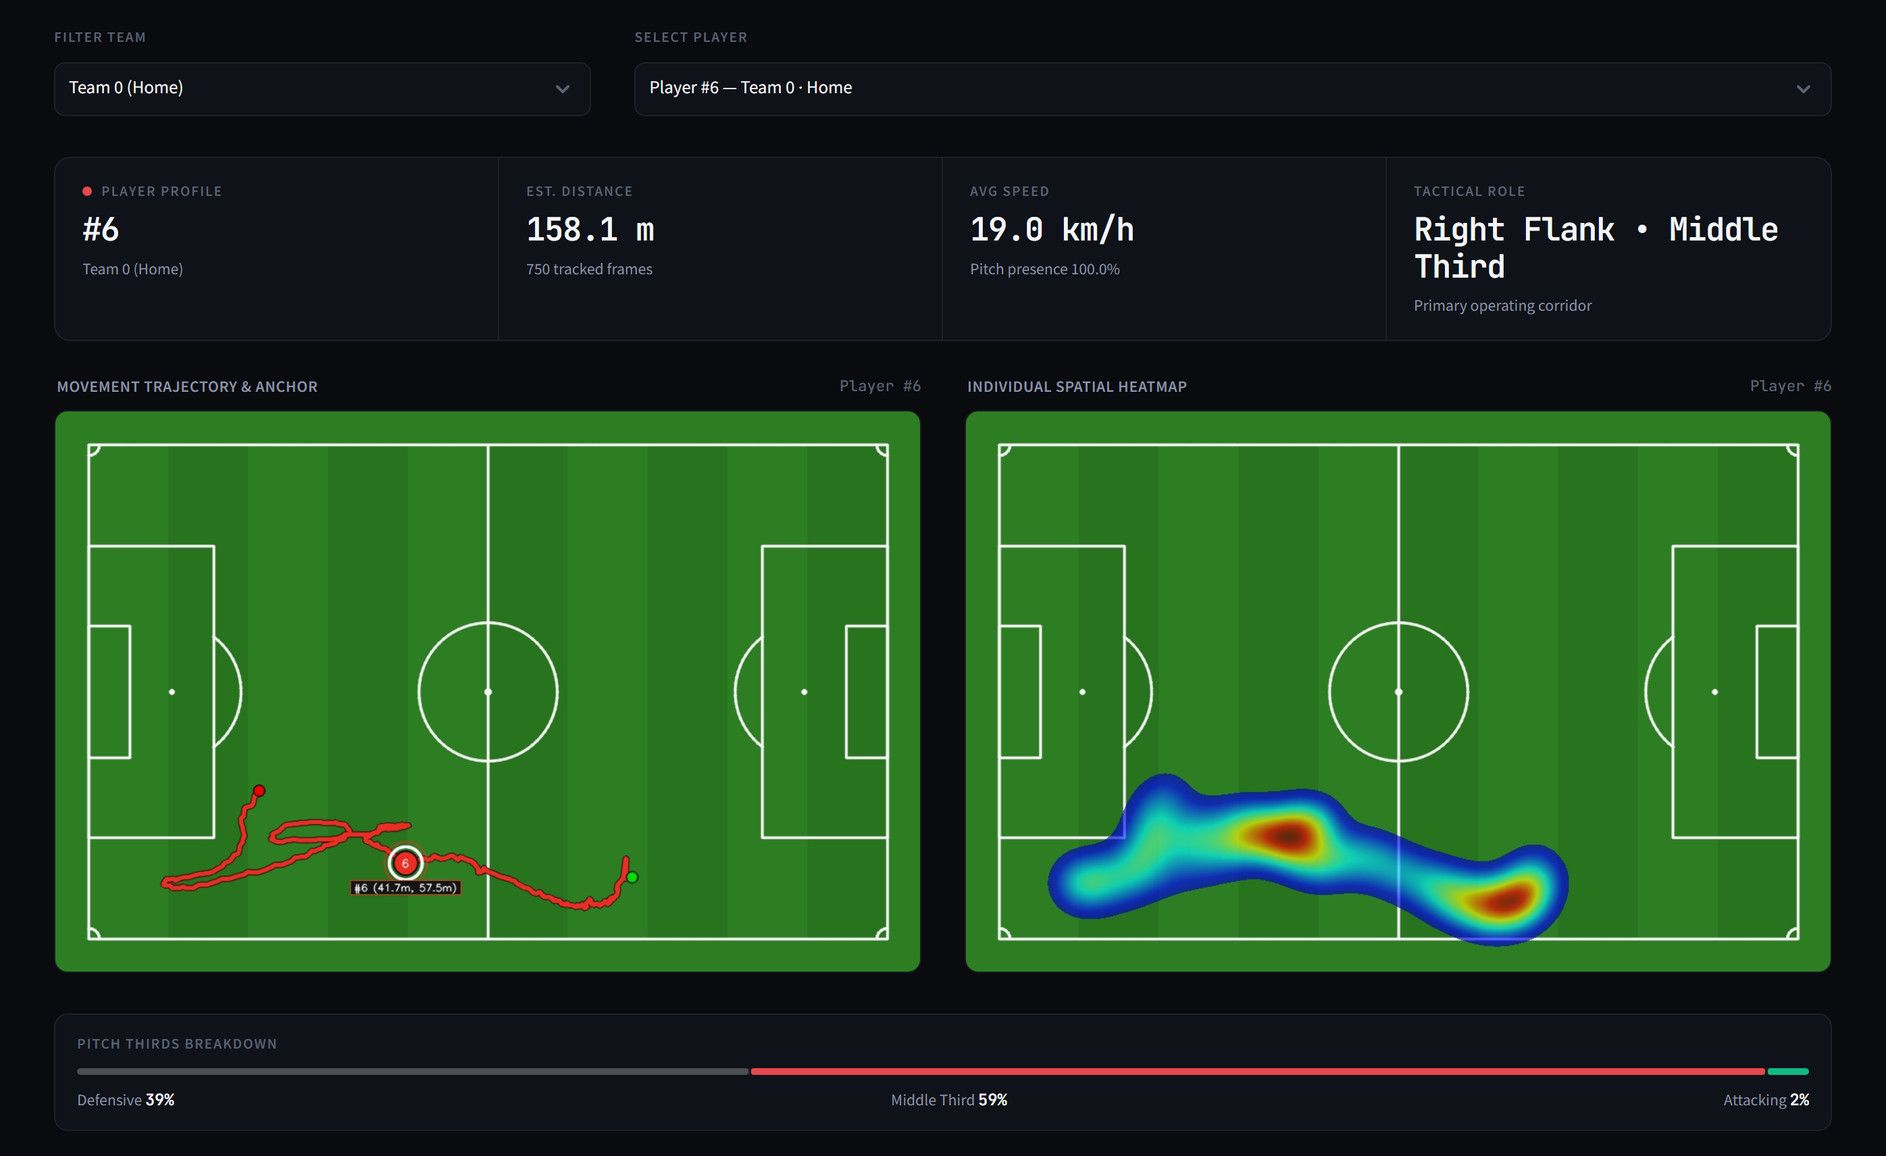
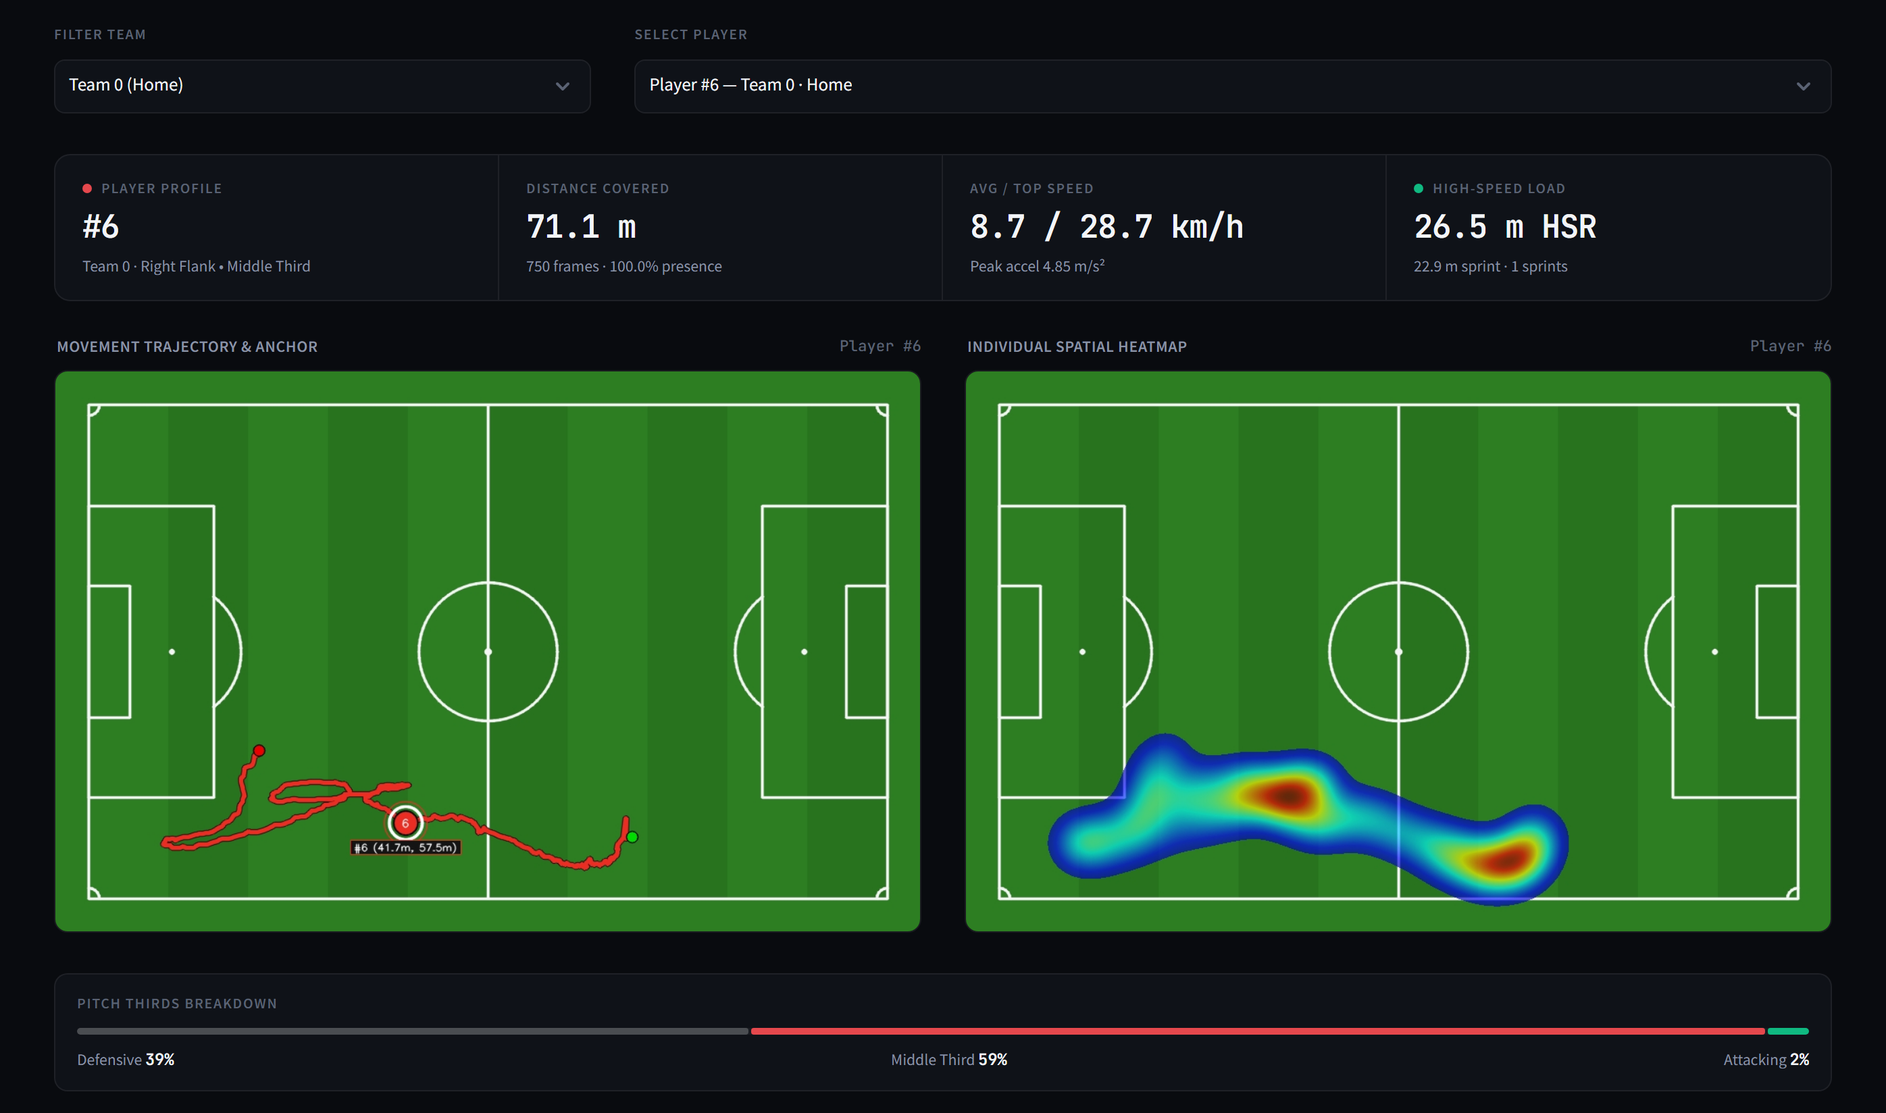
docs: update README with 2x Retina Phase 3 dashboard screenshots and calibrated metrics

diff --git a/app.py b/app.py
@@ -898,7 +898,7 @@ def render_passes_table_html(all_passes: List[Dict], active_pass_num: Optional[i
             f'<td class="obs-rank">#{p["pass_number"]:02d}</td>'
             f'<td class="obs-muted">{p["time_sec"]:.1f}s – {p["end_time_sec"]:.1f}s</td>'
             f'<td><span class="obs-team"><span class="dot {dot_c}"></span>T{p["team_id"]} {t_lbl}</span></td>'
-            f'<td class="obs-player">#{p["player_id"]}</td>'
+            f'<td><span class="obs-player">#{p["player_id"]}</span></td>'
             f'<td>{to_txt}</td>'
             f'<td>{pill}</td>'
             f'<td><span class="obs-pill obs-pill-tag">{p["subtype"]}</span></td>'
@@ -910,7 +910,7 @@ def render_passes_table_html(all_passes: List[Dict], active_pass_num: Optional[i
             f'</tr>'
         )
     st.markdown(
-        '<div class="obs-table-wrap"><div class="obs-table-scroll">'
+        '<div class="obs-table-wrap"><div class="obs-table-scroll" style="max-height:520px;">'
         '<table class="obs-table"><thead><tr>'
         '<th>Pass</th><th>Window</th><th>Team</th><th>From</th><th>To</th>'
         '<th>Outcome</th><th>Type</th><th class="num-h">Length</th>'
@@ -960,7 +960,7 @@ def render_physical_leaderboard_html(rows: List[Dict], active_pid: Optional[int]
             f'</tr>'
         )
     st.markdown(
-        '<div class="obs-table-wrap"><div class="obs-table-scroll">'
+        '<div class="obs-table-wrap"><div class="obs-table-scroll" style="max-height:520px;">'
         '<table class="obs-table"><thead><tr>'
         '<th>#</th><th>Player</th><th>Team</th><th class="num-h">Distance</th>'
         '<th class="num-h">Avg km/h</th><th class="num-h">Top km/h</th>'

diff --git a/src/analysis/tactical_physical.py b/src/analysis/tactical_physical.py
@@ -545,6 +545,9 @@ def render_tactical_shape_chart(dynamics: TacticalDynamicsEngine, target_team: O
         if len(s1["t"]) >= 2:
             ax.plot(s1["t"], s1["block_len"], color=COL_AWAY, linewidth=2.1, label="Team 1 Block Depth")
             ax.plot(s1["t"], s1["def_line"], color=COL_AWAY, linewidth=1.4, linestyle="--", alpha=0.72, label="Team 1 Def. Line")
+        all_vals = s0["block_len"] + s0["def_line"] + s1["block_len"] + s1["def_line"]
+        if all_vals:
+            ax.set_ylim(max(0.0, min(all_vals) - 6.0), max(all_vals) + 18.0)
         ax.set_title("Comparative Structural Compactness & Defensive Line", color=TXT_PRI, fontsize=9.3, fontweight="bold", loc="left", pad=10)
 
     leg = ax.legend(loc="upper right", frameon=True, facecolor="#131720", edgecolor=SPINE_COL, fontsize=7.5, labelcolor=TXT_SEC, ncol=2)

diff --git a/README.md b/README.md
@@ -5,7 +5,7 @@
 ### Broadcast-grade football analytics from a single camera feed
 
 Detect and track every player and the ball, classify teams and goalkeepers, project play onto a 2D FIFA pitch,<br>
-and break down every pass — **who, to whom, how far, how fast, and whether it arrived.**
+and extract calibrated pass telemetry, speed zones, sprints, structural compactness, and pressing intensity.
 
 [![Python](https://img.shields.io/badge/Python-3.10%2B-3776AB?style=flat-square&logo=python&logoColor=white)](https://www.python.org/)
 [![YOLO](https://img.shields.io/badge/Detection-YOLO11%20%2F%20YOLOv8-0F172A?style=flat-square)](https://github.com/ultralytics/ultralytics)
@@ -27,16 +27,17 @@ and break down every pass — **who, to whom, how far, how fast, and whether it 
 ## Overview
 
 Elite match analytics (Opta, StatsBomb, Second Spectrum) relies on manual event annotation or dedicated multi-camera optical arrays inside stadiums.
-**Footballistic** explores how much of that tactical intelligence can be extracted automatically from a single broadcast camera feed.
+**Footballistic** explores how much of that tactical and physical intelligence can be recovered automatically from a single broadcast camera feed.
 
 | Capability | Details |
 |---|---|
 | **Full-pitch player tracking** | Detects both near and far-touchline players and preserves IDs across fast camera pans |
 | **Dedicated ball tracking** | Camera-compensated Kalman filter + native-resolution ROI zoom (~95% frame lock on the demo clip) |
 | **Team & role classification** | Grass-subtracted jersey clustering separates Home, Away, Goalkeepers, referees, and touchline staff |
-| **2D pitch projection** | Perspective-aware mapping onto a standard 105 &times; 68 m FIFA pitch for formations and heatmaps |
-| **Physics-verified pass telemetry** | Exact kick-to-reception length (m), average & peak ball speed (km/h), flight time, and outcome |
-| **Interactive match centre** | Minimalist dark Streamlit studio with pass-by-pass freeze-frames, overview maps, and CSV export |
+| **Optical-Flow GMC + FIFA scale** | Per-frame optical-flow camera warps combined with automatic standing-height perspective scaling (~1.7% error vs. FIFA center circle) |
+| **Pass-by-pass telemetry** | Exact kick-to-reception length (m), average & peak ball speed (km/h), flight time, and outcome with per-pass freeze-frames |
+| **Physical & tactical dynamics** | FIFA 5-zone speed breakdown, sprint bursts (`≥ 21 km/h`), defensive line height, block compactness, and ball pressing intensity |
+| **Obsidian Match Centre** | Minimalist dark Streamlit studio with bespoke HTML data tables, interactive pass stepping (`←`/`→`), and CSV export |
 
 ---
 
@@ -46,36 +47,50 @@ Elite match analytics (Opta, StatsBomb, Second Spectrum) relies on manual event 
 Every detected pass receives a dedicated 2D freeze-frame showing all 22 players at the exact kick frame, the real curved ball trajectory, passer/receiver halos, calibrated length and speed, and a synchronized broadcast snapshot for direct visual verification. Step chronologically through passes with the `&larr;` / `&rarr;` controls.
 
 <p align="center">
-  <img src="docs/assets/dashboard_pass_completed.png" alt="Completed 24.6m long pass (#2 to #3) in the tactical inspector" width="49%">
-  <img src="docs/assets/dashboard_pass_intercepted.png" alt="Intercepted pass in the tactical inspector" width="49%">
+  <img src="docs/assets/dashboard_pass_completed.png" alt="Completed 25.9m long pass (#2 to #3) in the tactical inspector" width="49%">
+  <img src="docs/assets/dashboard_pass_intercepted.png" alt="Intercepted 14.9m pass (#7 to #20) in the tactical inspector" width="49%">
 </p>
-<p align="center"><sub><b>Left:</b> completed 24.6 m pass (#2 &rarr; #3). <b>Right:</b> pass by #7 intercepted by opponent #20 (dashed red path + &times; marker).</sub></p>
+<p align="center"><sub><b>Left:</b> completed 25.9 m pass (#2 &rarr; #3, 42 km/h). <b>Right:</b> pass by #7 intercepted by opponent #20 (14.9 m, 71 km/h, dashed red path + &times; marker).</sub></p>
 
 ### 02 &middot; All-Passes Match Overview & Telemetry Log
-All passes rendered onto one bird's-eye pitch — numbered circles mark kick origins matching the telemetry log (`green` = completed, `dashed red` = intercepted) — paired with the full exportable pass table (**From &rarr; To**, **Outcome**, **Length**, **Avg / Peak Speed**, **Duration**, and **Target Zone**).
+All passes rendered onto one bird's-eye pitch — numbered circles mark kick origins matching the telemetry log (`green` = completed, `dashed red` = intercepted) — paired with the full Obsidian pass telemetry table (**From &rarr; To**, **Outcome**, **Length**, **Avg / Peak Speed**, **Duration**, and **Target Zone**), exportable as CSV.
 
 <p align="center">
   <img src="docs/assets/dashboard_pass_overview.png" alt="All passes match overview map" width="84%">
 </p>
 <p align="center">
-  <img src="docs/assets/dashboard_pass_log.png" alt="Complete pass telemetry log table" width="84%">
+  <img src="docs/assets/dashboard_pass_log.png" alt="Complete pass telemetry log table" width="88%">
 </p>
 
-### 03 &middot; Team Tactical Analytics
-11v11 average formations, convex-hull team shape, centroid coordinates, block depth and width, collective occupancy heatmaps, and flank / pitch-depth distribution bars for Home, Away, or comparative views.
+### 03 &middot; Team Tactical Analytics, Structural Dynamics & Pressing
+11v11 average formations, convex-hull team shape, collision-free centroid markers, collective occupancy heatmaps, channel / pitch-depth distribution bars, and time-series structural compactness (defensive, midfield, and attacking lines) alongside nearest-opponent ball pressing intensity (`≤ 4.5 m` high-press zone).
 
 <p align="center">
   <img src="docs/assets/dashboard_team_home.png" alt="Team 0 Home tactical analytics" width="49%">
   <img src="docs/assets/dashboard_team_away.png" alt="Team 1 Away tactical analytics" width="49%">
 </p>
+<p align="center">
+  <img src="docs/assets/dashboard_team_home_dynamics.png" alt="Team 0 line heights, block envelope and pressing intensity" width="49%">
+  <img src="docs/assets/dashboard_team_comparative_dynamics.png" alt="Comparative 11v11 compactness and both-teams pressing intensity" width="49%">
+</p>
+<p align="center"><sub><b>Top:</b> Home &amp; Away formations, centroids, and heatmaps. <b>Bottom:</b> single-team block envelope (left) and comparative 11v11 compactness &amp; pressing intensity (right).</sub></p>
 
-### 04 &middot; Player Deep-Dive
-Select any tracked player to inspect their full 2D movement trajectory, average anchor position, individual KDE heatmap, estimated distance covered, average speed, operating corridor, and pitch-thirds breakdown.
+### 04 &middot; Player Deep-Dive, FIFA Speed Zones & Physical Leaderboard
+Inspect any tracked player's 2D trajectory, individual KDE heatmap, calibrated distance, average/top speed, peak acceleration, compact velocity profile chart paired with the **FIFA 5-Zone Intensity Breakdown** (Walking through Sprinting + detected sprint burst timestamps), and the sortable **Match Physical Leaderboard**.
 
 <p align="center">
-  <img src="docs/assets/dashboard_player_home.png" alt="Player deep-dive for Team 0" width="49%">
-  <img src="docs/assets/dashboard_player_away.png" alt="Player deep-dive for Team 1" width="49%">
+  <img src="docs/assets/dashboard_player_home.png" alt="Player #6 deep-dive for Team 0" width="49%">
+  <img src="docs/assets/dashboard_player_away.png" alt="Player #12 deep-dive for Team 1" width="49%">
 </p>
+<p align="center">
+  <img src="docs/assets/dashboard_player_speed_home.png" alt="Player #6 instantaneous speed profile and FIFA 5-zone breakdown with sprint burst" width="49%">
+  <img src="docs/assets/dashboard_player_speed_away.png" alt="Player #12 instantaneous speed profile and FIFA 5-zone breakdown" width="49%">
+</p>
+<p align="center">
+  <img src="docs/assets/dashboard_leaderboard_home.png" alt="Match physical leaderboard for Team 0 Home" width="49%">
+  <img src="docs/assets/dashboard_leaderboard_away.png" alt="Match physical leaderboard for Team 1 Away" width="49%">
+</p>
+<p align="center"><sub><b>Top:</b> trajectories &amp; heatmaps (#6 Home, #12 Away). <b>Middle:</b> instantaneous speed profiles &amp; FIFA 5-zone sprint breakdown. <b>Bottom:</b> Match Physical Leaderboards with active-player highlight &amp; inline intensity bars.</sub></p>
 
 ---
 
@@ -89,13 +104,13 @@ flowchart LR
     C --> E["Ball Tracker<br/>Kalman + ROI Zoom"]
     D --> F["Team / GK / Ref<br/>Colour Classifier"]
     F --> G["Track Consolidation<br/>11v11 Prior & IDs"]
-    E --> H["2D Pitch Mapping<br/>FIFA 105 x 68 m"]
+    E --> H["Optical-Flow GMC<br/>& FIFA Perspective Scale"]
     G --> H
-    H --> I["Possession & Pass Engine<br/>Length · Speed · Outcome"]
-    I --> J["Streamlit Match Centre<br/>+ H.264 Annotated Replay"]
+    H --> I["Pass Engine & Phase 3<br/>Speed Zones · Compactness · Press"]
+    I --> J["Obsidian Match Centre<br/>+ H.264 Annotated Replay"]
 ```
 
-The engine runs in two passes: **Pass 1** performs detection, camera-compensated tracking, global tracklet stitching, and team classification (cached to `pass1_cache.pkl`); **Pass 2** renders the globally consistent H.264 broadcast replay and exports `spatial_data.json` plus per-pass 2D freeze-frames for instant dashboard loading.
+The engine runs in two passes: **Pass 1** performs detection, camera-compensated tracking, global tracklet stitching, optical-flow warp extraction, and team classification (cached to `pass1_cache.pkl`); **Pass 2** renders the globally consistent H.264 broadcast replay and exports `spatial_data.json` (with per-frame camera warps and FIFA height calibration) plus per-pass 2D freeze-frames for instant dashboard loading.
 
 ---
 
@@ -107,7 +122,8 @@ Broadcast football presents tough failure modes for off-the-shelf vision pipelin
 |---|---|
 | **Distant far-touchline players missed by default detectors** | Inference runs on the dynamically pitch-cropped region at `imgsz=1280` with a low confidence floor (`0.14`) and second-stage recovery |
 | **Spectators, LED ad boards, dugouts, and coaches flagged as players** | Non-convex turf HSV segmentation (excluding emerald LED panels) combined with a RANSAC white near-touchline boundary filter |
-| **Fast camera pans cause tracker ID switches** | BoT-SORT with `sparseOptFlow` global motion compensation (GMC), Stage-3 foot-distance + CIE Lab jersey Re-ID, and global tracklet consolidation under a FIFA 11-player prior |
+| **Fast camera pans cause tracker ID switches & fake player speed** | BoT-SORT with `sparseOptFlow` global motion compensation (GMC), Stage-3 CIE Lab Re-ID, 11v11 consolidation, and per-frame optical-flow warp subtraction in kinematics |
+| **Unknown camera zoom inflates distances when assuming full 105 m FOV** | Automatic standing-player height regression (`h(y) / 2.22 m`) calibrates local horizontal `px/m` at every depth row, matching the FIFA 18.30 m center circle within **1.7%** |
 | **Tiny, fast, frequently occluded football & static penalty-spot false positives** | Dedicated `BallTracker` using a GMC-Kalman filter, 1:1 native-resolution `320px` ROI zoom, motion/white-blob recovery, and unattended static penalty-spot rejection |
 | **White kits blending into ad boards / neon-green kits blending into turf** | Local-turf-adaptive colour subtraction inside jersey crops plus lopsided-cluster protection in K-Means |
 | **Long aerial switches falsely broken by bystanders underneath** | Kinematic fly-over filter verifying minimum in-spell deceleration and trajectory bend before, during, and after contact |
@@ -119,19 +135,21 @@ Broadcast football presents tough failure modes for off-the-shelf vision pipelin
 
 | Metric | `sample.mp4` (Broadcast) | `sample2.mp4` (Wide Tactical) |
 |---|:---:|:---:|
+| Auto-calibrated horizontal FOV | **69.5 m** *(FIFA ground truth: 70.7 m)* | **89.0 m** |
 | Players tracked | **22** (11 v 11) | **22** (11 v 11) |
 | Ball frame coverage | **94.9%** (712 / 750 frames) | ~85–91% |
 | Passes detected | **9** (8 completed &middot; 1 intercepted) | **5** (4 completed &middot; 1 intercepted) |
 | Pass accuracy | 88.9% | 80.0% |
-| Mean pass length / speed | 24.0 m &middot; 52.9 km/h | 29.1 m &middot; 39.6 km/h |
-| Longest pass | **53.0 m** cross-field switch (`#8` &rarr; `#7`) | **63.6 m** long clearance (`#2` &times; `#12`) |
+| Mean pass length / speed | 21.6 m &middot; 46.8 km/h | 30.4 m &middot; 40.5 km/h |
+| Longest pass | **50.9 m** cross-field switch (`#8` &rarr; `#7`) | **71.9 m** long clearance (`#2` &times; `#12`) |
+| Fastest player (top speed) | **#6** &middot; 28.7 km/h *(26.5 m HSR)* | **#16** &middot; 26.8 km/h *(27.4 m HSR)* |
 
 > Metrics reflect two 30-second validation clips used during development rather than a large-scale benchmark.
 
-### Pass Length & Speed Calibration
-1. **Exact timing:** The engine locates the last closest approach of the ball to the passer's foot before departure (`kick_frame`) and the first closest approach to the receiver or interceptor (`receive_frame`).
-2. **Perspective scaling:** Camera pixel coordinates are warped onto a standard 105 &times; 68 m FIFA pitch using projective Y foreshortening and trapezoid width compensation.
-3. **Telemetry:** Straight-line length (m), flight arc length (m), average speed (km/h = distance / true flight duration), and filtered peak velocity (km/h) are computed for every pass.
+### Metric Calibration (Distance & Speed)
+1. **Optical-flow camera subtraction:** Each frame's 2&times;3 background affine warp (`frame_warps`) removes pure camera pan, tilt, and zoom before measuring player or ball displacement.
+2. **Perspective Jacobian:** Horizontal `px/m` is calibrated at every image row `y` from the trimmed linear height profile of standing players (`h(y) / 2.22 m`), while pitch width (`68.0 m`) uses a projective foreshortening curve (`persp_k = 1.75`) anchored to the on-pitch touchline bounds.
+3. **Pass & physical telemetry:** Pass length and speed integrate calibrated ball displacement from `kick_frame` to `receive_frame`; player trajectories use centered ~0.5 s smoothing + 1.2 km/h noise-floor gating for FIFA 5-zone and sprint burst extraction.
 
 ---
 
@@ -178,12 +196,12 @@ streamlit run app.py
 - [x] Interceptions, ball recoveries, progressive passes, final-third entries, and box entries
 
 ### Phase 3 &mdash; Physical & Tactical Metrics &nbsp;`Completed`
-- [x] Pan-compensated, smoothed distance covered, average speed, pitch presence, and third/channel splits
-- [x] FIFA 5-zone speed breakdown (Walking through Sprinting), peak speed, peak acceleration, HSR (`> 18 km/h`), sprint counts (`>= 21 km/h`), and instantaneous velocity profile charts
-- [x] Time-series defensive line height, midfield-to-defense gap, outfield block compactness envelope, and ball-carrier pressing intensity (`<= 4.5 m` high-press zone)
+- [x] Optical-flow GMC & FIFA standing-height calibrated distance, average speed, pitch presence, and third/channel splits
+- [x] FIFA 5-zone speed breakdown (Walking through Sprinting), peak speed, peak acceleration, HSR (`> 18 km/h`), sprint counts (`≥ 21 km/h`), and instantaneous velocity profile charts
+- [x] Time-series defensive line height, midfield-to-defense gap, outfield block compactness envelope, and ball-carrier pressing intensity (`≤ 4.5 m` high-press zone)
 
 ### Phase 4 &mdash; Interactive Match Centre &nbsp;`In Progress`
-- [x] Minimalist Obsidian dark Streamlit workspace with pass inspector (`←`/`→`), match overview map, telemetry log, and CSV export
+- [x] Minimalist Obsidian dark Streamlit studio with pass inspector (`←`/`→`), bespoke HTML telemetry tables, match overview map, and CSV export
 - [ ] One-click printable HTML / PDF match scouting report
 
 ### Phase 5 &mdash; Pro-Grade Calibration &nbsp;`Planned`
@@ -194,7 +212,7 @@ streamlit run app.py
 
 ## Current Limitations
 
-- **Perspective approximation:** 2D projection uses a calibrated perspective warp rather than per-frame line-keypoint homography, so distances and speeds are accurate estimates rather than optical survey ground truth.
+- **Perspective approximation:** While optical-flow GMC + standing-height scaling matches the center circle to within ~2% on broadcast feeds, full per-frame line-keypoint homography (Phase 5) is still needed for extreme camera angles or heavy zoom changes.
 - **2D ball tracking:** Aerial elevation is not modelled; lofted passes are projected onto the ground plane.
 - **Anonymous IDs:** Player labels (`#1`–`#22`) are persistent per-clip identifiers rather than recognized shirt numbers.
 - **Validation scope:** Tested thoroughly on two 30-second broadcast/tactical clips; broader multi-stadium evaluation is planned.
@@ -206,19 +224,19 @@ streamlit run app.py
 
 ```text
 Footballistic/
-├── .streamlit/config.toml            # Dark studio theme configuration
+├── .streamlit/config.toml            # Obsidian dark studio theme configuration
 ├── configs/football_botsort.yaml     # GMC BoT-SORT tracker settings
-├── docs/assets/                      # Retina dashboard screenshots & 12s demo clip
+├── docs/assets/                      # 2x Retina dashboard screenshots & 12s demo clip
 ├── scripts/download_sample.py        # Sample match clip downloader
 ├── src/
 │   ├── detection/                    # High-res YOLO · pitch & touchline segmentation
 │   ├── tracking/                     # GMC BoT-SORT · ball tracker · global stitcher
 │   ├── team_assignment/              # Lab K-Means team, GK & referee classifier
 │   ├── homography/pitch_view.py      # 2D pitch, heatmaps, single-pass & overview visuals
-│   ├── analysis/                     # Spatial metrics · possession/pass · speed zones & pressing
+│   ├── analysis/                     # Spatial metrics · pass engine · speed zones & pressing
 │   └── utils/                        # Broadcast visualizer · PyAV H.264 encoder
 ├── main.py                           # Two-pass CV pipeline entrypoint
-├── app.py                            # Streamlit Match Centre UI
+├── app.py                            # Streamlit Obsidian Match Centre UI
 └── requirements.txt
 ```
 
